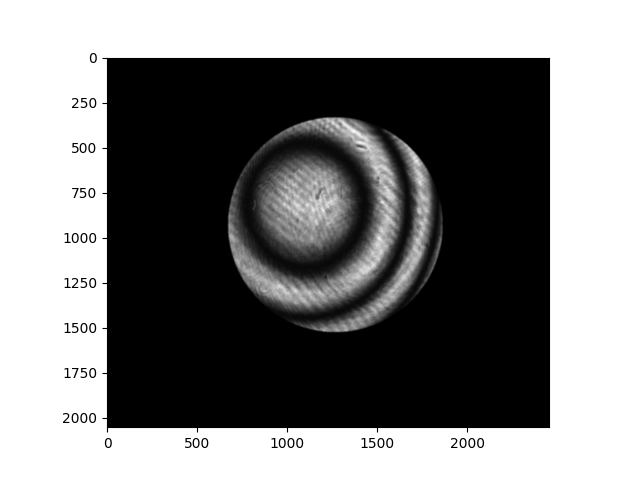
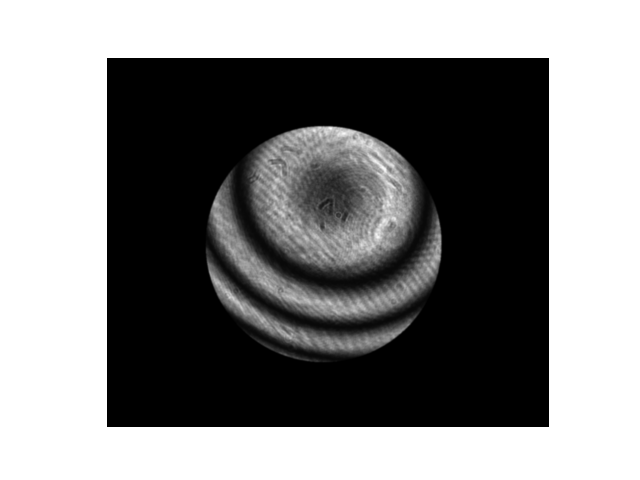
Update export

diff --git a/applis/Zygo-labwork/widgets/acquisition_menu_widget.py b/applis/Zygo-labwork/widgets/acquisition_menu_widget.py
@@ -529,9 +529,11 @@ class AcquisitionMenuWidget(QWidget):
         print('button_see_and_save_images_isClicked')
 
         try:
-            display_images(self.images)
-            path = QFileDialog.getExistingDirectory(self, "Sélectionnez un dossier", "")
-            save_images(self.images, path)
+            default_dir = os.path.expanduser("~/Desktop")
+            path = QFileDialog.getExistingDirectory(self, "Sélectionnez un dossier", default_dir)
+            if path:
+                save_images(self.images, path)
+                display_images(self.images)
         except:
             msg_box = QMessageBox()
             msg_box.setStyleSheet(styleH3)
@@ -546,10 +548,17 @@ class AcquisitionMenuWidget(QWidget):
         print('button_save_phase_isClicked')
 
         try:
-            path = QFileDialog.getExistingDirectory(self, "Sélectionnez un dossier", "")
-            plt.figure()
-            plt.imshow(self.interpolated_values)
-            plt.savefig(f"{path}/phase.png")
+            default_dir = os.path.expanduser("~/Desktop")
+            path = QFileDialog.getExistingDirectory(self, "Sélectionnez un dossier", default_dir)
+            if path:
+                plt.figure()
+                plt.imshow(self.phase-np.nanmin(self.phase), cmap='rainbow')
+                cbar = plt.colorbar()
+                cbar.ax.yaxis.set_major_formatter(plt.FuncFormatter(lambda x, _: f'{x:.2f} λ'))
+                plt.axis('off')
+                plt.savefig(f"{path}/phase.png")
+                plt.title('Phase enregitrée avec succès.')
+                plt.show()
         except:
             msg_box = QMessageBox()
             msg_box.setStyleSheet(styleH3)

diff --git a/applis/Zygo-labwork/widgets/results_menu_widget.py b/applis/Zygo-labwork/widgets/results_menu_widget.py
@@ -7,12 +7,12 @@
 .. moduleauthor:: Dorian MENDES (Promo 2026) <dorian.mendes@institutoptique.fr>
 """
 
-import sys
+import sys, os
 from PyQt6.QtWidgets import (
     QMainWindow, QWidget,
     QVBoxLayout, QHBoxLayout, QGridLayout,
     QLabel, QComboBox, QPushButton, QCheckBox,
-    QMessageBox
+    QMessageBox, QFileDialog
 )
 from PyQt6.QtCore import pyqtSignal, QTimer, Qt
 from PyQt6.QtGui import QPixmap
@@ -83,7 +83,7 @@ class ResultsMenuWidget(QWidget):
         self.layout.addWidget(self.label_title_results)
         #self.layout.addWidget(self.combobox_type_output_plot)
         self.layout.addWidget(self.table_results)
-        self.layout.addWidget(self.button_print_all_results)
+        #self.layout.addWidget(self.button_print_all_results)
         self.layout.addStretch()
 
         self.master_widget.setLayout(self.layout)
@@ -92,6 +92,19 @@ class ResultsMenuWidget(QWidget):
 
     def button_print_all_results_isClicked(self):
         self.button_print_all_results.setStyleSheet(actived_button)
+
+        try:
+            default_dir = os.path.expanduser("~/Desktop")
+            path = QFileDialog.getExistingDirectory(self, "Sélectionnez un dossier", default_dir)
+            if path:
+                np.savetxt(f"{path}/zygo_statistics.txt", self.array, delimiter=',', fmt='%s')
+        except Exception as e:
+            msg_box = QMessageBox()
+            msg_box.setStyleSheet(styleH3)
+            msg_box.warning(self, "Erreur", f"Vous devez faire un acquisition. {e}")
+            self.button_repeated_acquisition.setStyleSheet(unactived_button)  
+            return None
+
         self.button_print_all_results.setStyleSheet(unactived_button)
 
 

diff --git a/applis/Zygo-labwork/widgets/title_widget.py b/applis/Zygo-labwork/widgets/title_widget.py
@@ -35,7 +35,7 @@ class TitleWidget(QWidget):
         super().__init__(parent=None)
         self.setStyleSheet("background-color: white;")  # Set background color for the entire widget
         self.title = "Contrôle interférométrique & Analyseur de front d'onde ZYGO"
-        self.subtitle = "Travaux pratiques de 1A et 2AP"
+        self.subtitle = "Julien Villemejane (PRAG), Dorian Mendes (Promo 2026)"
 
         self.layout = QVBoxLayout()
 

diff --git a/applis/Zygo-labwork/process/export_images.py b/applis/Zygo-labwork/process/export_images.py
@@ -34,13 +34,16 @@ def display_images(images):
     plt.axis('off')
 
     plt.tight_layout()
+    plt.suptitle('Images enregistrées avec succès.')
     plt.show()
 
 def save_images(images, path):
     for i in range(5):
         plt.figure()
         plt.imshow(images[i], 'gray')
+        plt.axis('off')
         plt.savefig(f'{path}/zygo_interf_{i+1}.png')
+        plt.close()
     return 0
 
 if __name__ == '__main__':
